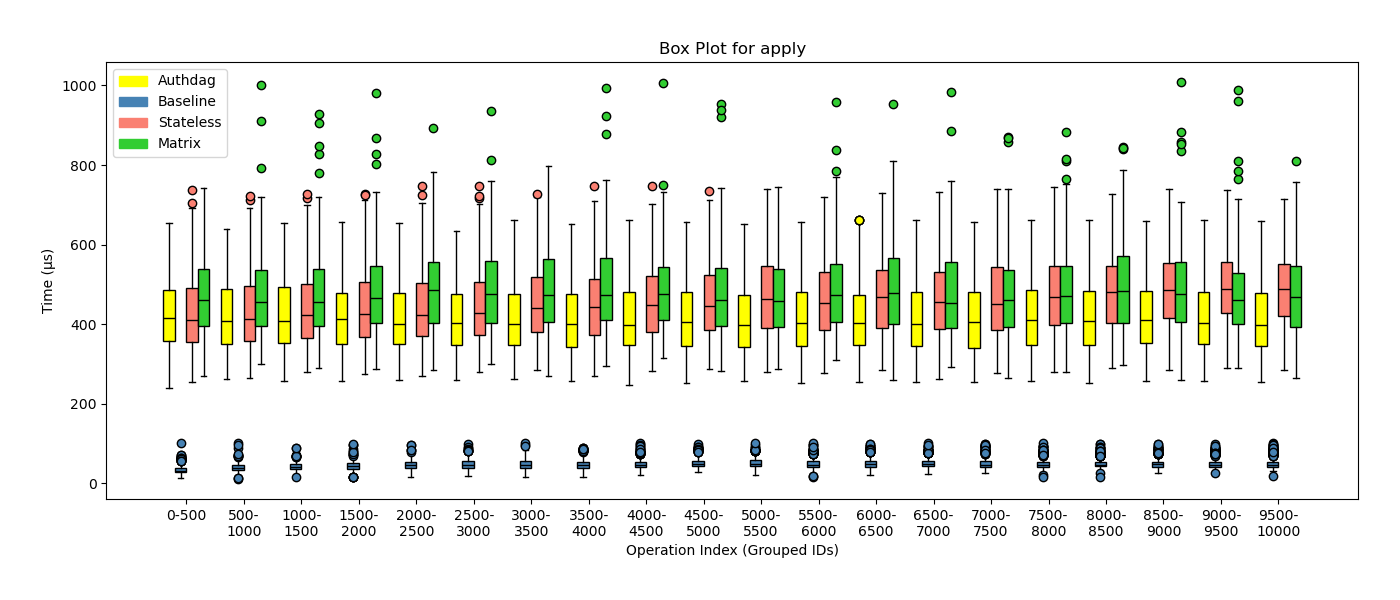
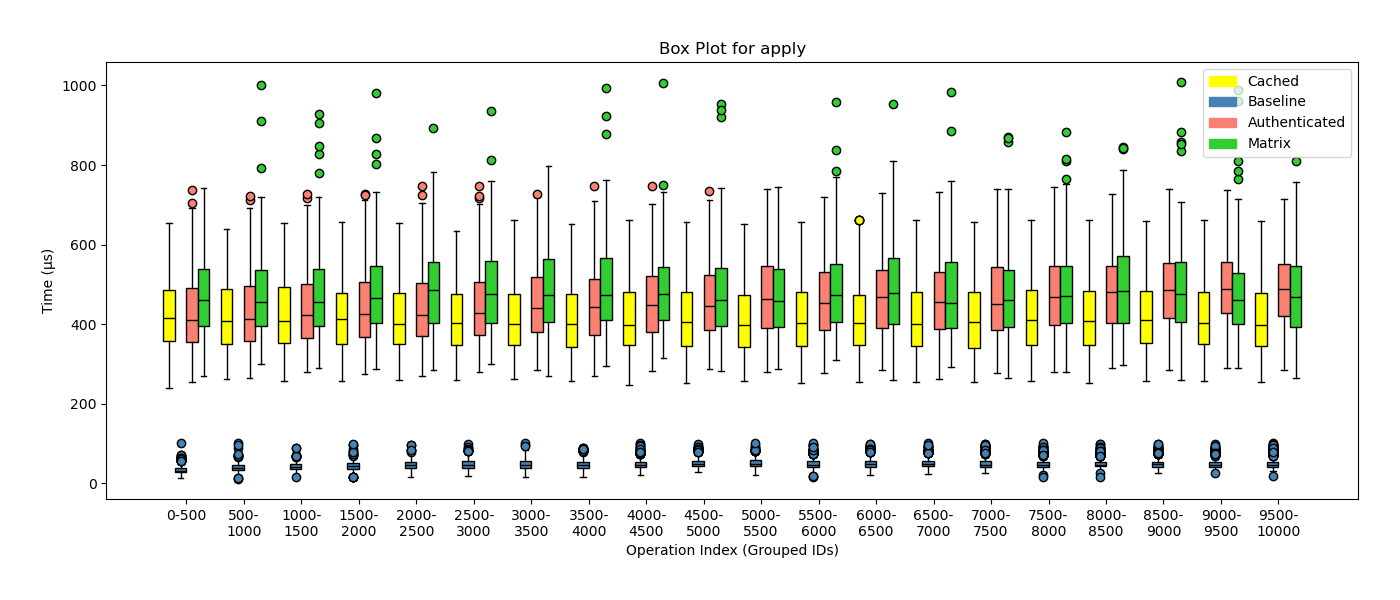
updated some labels

Changed region(s): [[0.0614, 0.12, 0.1536, 0.27], [0.86, 0.12, 0.9521, 0.27]]

diff --git a/tasks/macro/benchmark.py b/tasks/macro/benchmark.py
@@ -49,7 +49,7 @@ def benchmark(c, name, clients, operations,
     for i in range(repetitions):
         print("🔧 Running benchmark...")
         match name:
-            case "authdag":
+            case "caching":
                 run_benchmark(
                     clients=clients, operations=operations,
                     backend_bin="socket", frontend_env= "",
@@ -65,7 +65,7 @@ def benchmark(c, name, clients, operations,
                     logs_dir=temp_dir,
                     seed=workload_seed,
                 )
-            case "stateless":
+            case "authenticated":
                 run_benchmark(
                     clients=clients, operations=operations,
                     backend_bin="socket", frontend_env= "stateless",
@@ -117,6 +117,14 @@ def benchmark(c, name, clients, operations,
                                     use_dag_ops=graph_use_dag_ops)
 
                 for op_name, fig in plots.items():
+                    ax = fig.axes[0]
+
+                    legend_patches = [mpatches.Patch(color=color, label=name.capitalize())]
+                    if include_front:
+                        legend_patches = [mpatches.Patch(color=color, label="Backend Time")]
+                        legend_patches.append(mpatches.Patch(color=front_color, label="Frontend Time"))
+                    ax.legend(handles=legend_patches)
+
                     if graph_show:
                         fig.show()
                     fig.savefig(f'{output_dir}/{name}-{t}-{op_name}.png')

diff --git a/tasks/macro/__init__.py b/tasks/macro/__init__.py
@@ -29,16 +29,16 @@ def make_benchmark_task(benchmark_name, benchmark_type, clients, operations):
 from . import graph, benchmark
 
 ns_simple = Collection()
-ns_simple.add_task(make_benchmark_task("authdag", "simple", 2, 10000), name="authdag")
-ns_simple.add_task(make_benchmark_task("stateless", "simple", 2, 10000), name="stateless")
+ns_simple.add_task(make_benchmark_task("cached", "simple", 2, 10000), name="cached")
+ns_simple.add_task(make_benchmark_task("authenticated", "simple", 2, 10000), name="authenticated")
 ns_simple.add_task(make_benchmark_task("baseline", "simple", 2, 10000), name="baseline")
 ns_simple.add_task(make_benchmark_task("authless", "simple", 2, 10000), name="authless")
 ns_simple.add_task(make_benchmark_task("matrix", "simple", 2, 10000), name="matrix")
 
 ns_full = Collection()
-ns_full.add_task(make_benchmark_task("authdag", "full", 32, 10000), name="authdag")
+ns_full.add_task(make_benchmark_task("cached", "full", 32, 10000), name="cached")
 ns_full.add_task(make_benchmark_task("stateless", "full", 32, 100), name="stateless")
-ns_full.add_task(make_benchmark_task("authless", "full",32, 10000), name="authless")
+ns_full.add_task(make_benchmark_task("authenticated", "full",32, 10000), name="authenticated")
 ns_full.add_task(make_benchmark_task("matrix", "full", 32, 10000), name="matrix")
 
 ns = Collection()

diff --git a/tasks/macro/graph.py b/tasks/macro/graph.py
@@ -64,7 +64,7 @@ def comparison(ctx,folders,
     show = str(show).lower() in ("1", "true", "yes", "on")
 
     folders = [f.strip() for f in folders.split(",") if f.strip()]
-    labels = ["Authdag", "Baseline" , "Stateless", "Matrix"]
+    labels = ["Cached", "Baseline" , "Authenticated", "Matrix"]
     colors = ["yellow", "steelblue", "salmon", "limegreen"]
 
     dfs = []
